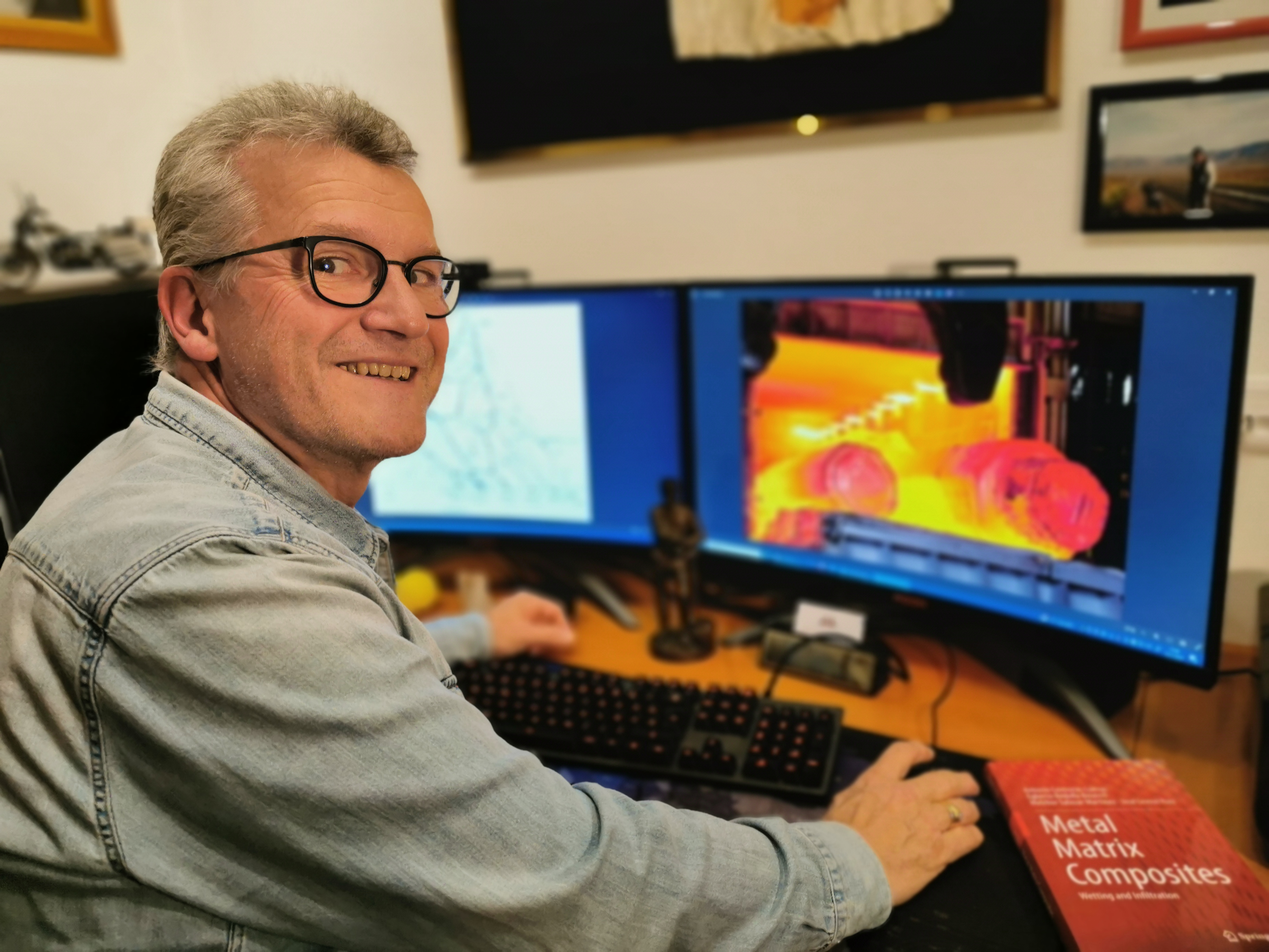
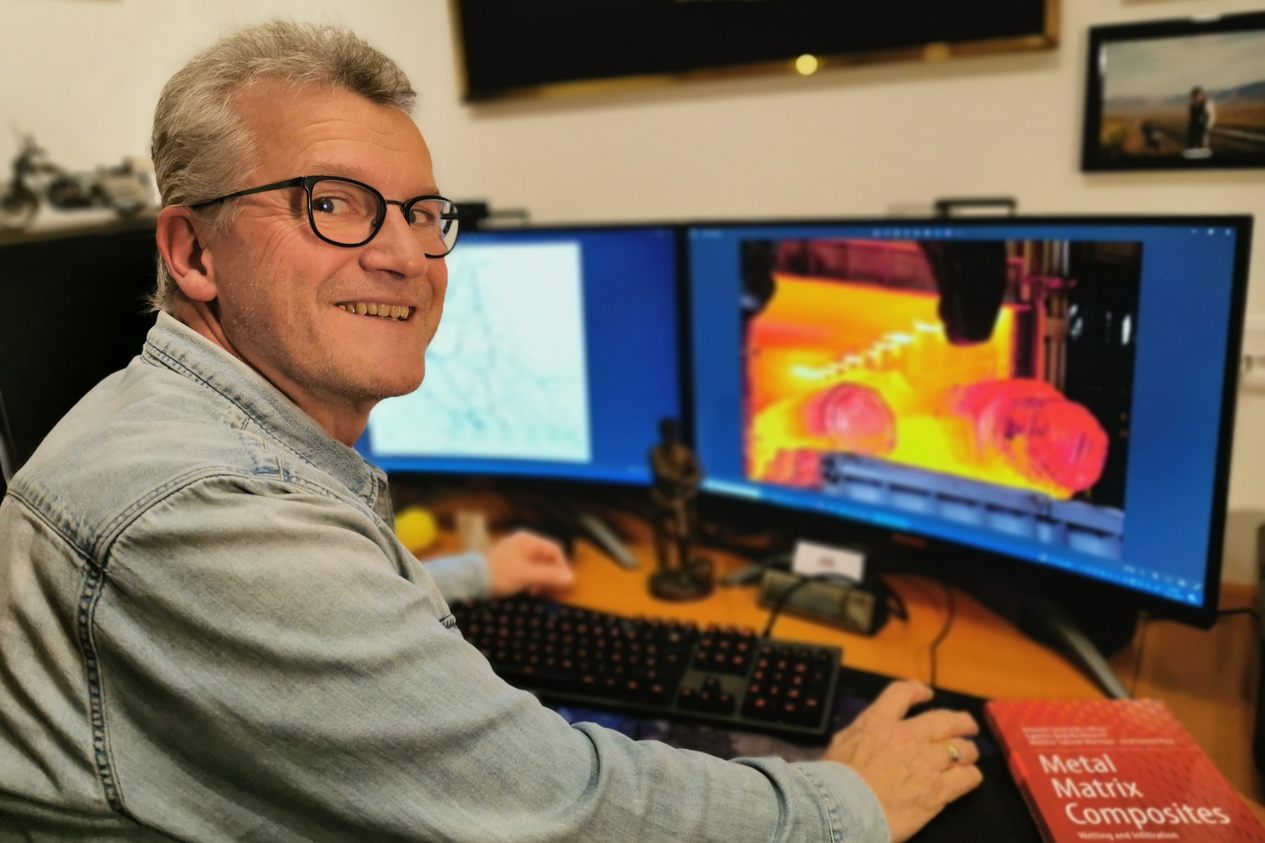
"Updated margin in .rec-image-offer class in style.css and modified IMG_20241116_174636.jpg image."

diff --git a/style.css b/style.css
@@ -264,7 +264,7 @@ footer a:hover {
 .rec-image-offer {
     width: 400px;
     max-height: 250px;
-    margin: 0px 50px 0px 0px;
+    margin: 15px 50px 0px 0px;
     object-fit: contain;
 }
 
